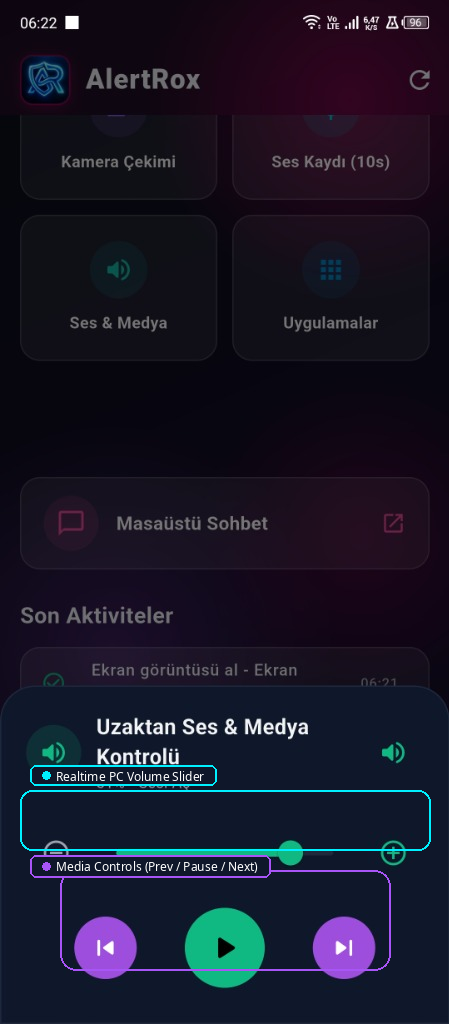
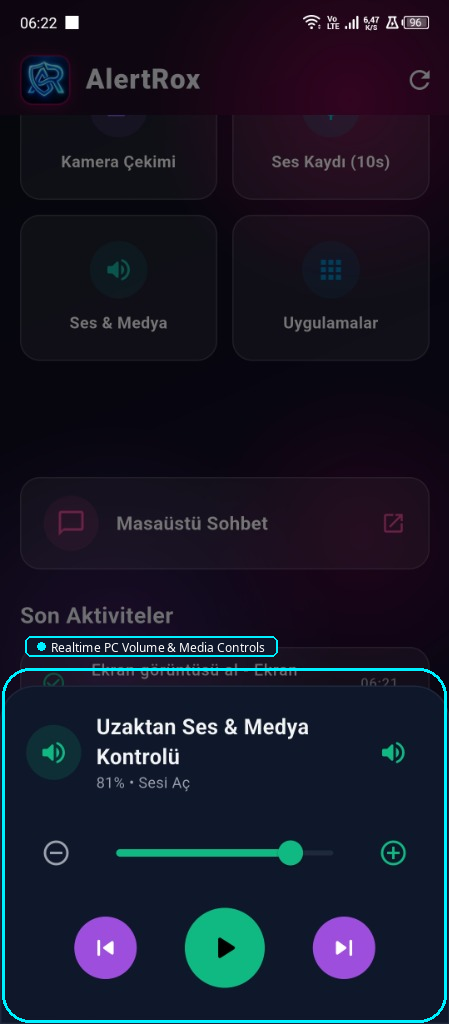
docs: clean Turkish screenshots and fix volume overlay across all languages

diff --git a/scripts/generate_annotated_screenshots.py b/scripts/generate_annotated_screenshots.py
@@ -23,7 +23,6 @@ LANGUAGES = ['tr', 'en', 'de', 'ru', 'es', 'ar', 'fr', 'pt', 'zh', 'ja']
 ANNOTATIONS = {
     'dashboard': {
         'status': {
-            'tr': 'Canlı PC Durumu (Çevrimiçi / Pil / IP)',
             'en': 'Live PC Status (Online / Battery / IP)',
             'de': 'Live PC-Status (Online / Akku / IP)',
             'ru': 'Статус ПК (В сети / Батарея / IP)',
@@ -35,7 +34,6 @@ ANNOTATIONS = {
             'ja': 'リアルタイムPC状態（オンライン / バッテリー / IP）',
         },
         'actions': {
-            'tr': 'Hızlı Eylem Kartları (Kilit, Kapatma vb.)',
             'en': 'Quick Action Controls (Lock, Shutdown etc.)',
             'de': 'Schnellaktionen (Sperren, Herunterfahren etc.)',
             'ru': 'Быстрые действия (Блокировка, Выключение и др.)',
@@ -49,7 +47,6 @@ ANNOTATIONS = {
     },
     'apps': {
         'tabs': {
-            'tr': 'Açık Olanlar ve Yüklü Uygulamalar',
             'en': 'Running & Installed Desktop Apps',
             'de': 'Laufende & Installierte Anwendungen',
             'ru': 'Запущенные и установленные приложения',
@@ -61,7 +58,6 @@ ANNOTATIONS = {
             'ja': '実行中およびインストール済みアプリ',
         },
         'launch': {
-            'tr': "Tek Dokunuşla PC'de Başlat / Kapat",
             'en': 'One-Click Launch & Close on PC',
             'de': 'Ein-Klick Starten & Beenden auf dem PC',
             'ru': 'Запуск и закрытие на ПК в один клик',
@@ -75,7 +71,6 @@ ANNOTATIONS = {
     },
     'media': {
         'audio': {
-            'tr': 'Uygulama İçi Ses Çalar (İndirmeden Dinle)',
             'en': 'In-App Audio Player (Listen without download)',
             'de': 'In-App Audio-Player (Ohne Download anhören)',
             'ru': 'Встроенный аудиоплеер (Без скачивания)',
@@ -87,7 +82,6 @@ ANNOTATIONS = {
             'ja': 'アプリ内オーディオプレーヤー（ダウンロード不要）',
         },
         'preview': {
-            'tr': 'Ekran Görüntüsü / Kamera Önizlemesi & İndirme',
             'en': 'Screenshot & Webcam Preview / Download',
             'de': 'Screenshot- & Webcam-Vorschau / Download',
             'ru': 'Просмотр и скачивание скриншота/веб-камеры',
@@ -101,33 +95,19 @@ ANNOTATIONS = {
     },
     'volume': {
         'slider': {
-            'tr': 'Anlık PC Ses Seviyesi Kaydırıcısı',
-            'en': 'Realtime PC Volume Slider',
-            'de': 'Echtzeit-PC-Lautstärkeregler',
-            'ru': 'Ползунок громкости ПК в реальном времени',
-            'es': 'Control deslizante de volumen de PC en tiempo real',
-            'ar': 'شريط تمرير مستوى صوت الكمبيوتر المباشر',
-            'fr': 'Curseur de volume PC en temps réel',
-            'pt': 'Controle deslizante de volume do PC em tempo real',
-            'zh': '实时电脑音量滑块',
-            'ja': 'リアルタイムPC音量スライダー',
-        },
-        'media': {
-            'tr': 'Medya Oynatıcı Kontrolleri (Önceki / Durdur / Sonraki)',
-            'en': 'Media Controls (Prev / Pause / Next)',
-            'de': 'Mediensteuerung (Zurück / Pause / Vor)',
-            'ru': 'Управление медиа (Пред / Пауза / След)',
-            'es': 'Controles de medios (Anterior / Pausa / Siguiente)',
-            'ar': 'التحكم في الوسائط (السابق / إيقاف / التالي)',
-            'fr': 'Contrôles multimédias (Précédent / Pause / Suivant)',
-            'pt': 'Controles de mídia (Anterior / Pausar / Próximo)',
-            'zh': '媒体播放控制（上一曲 / 暂停 / 下一曲）',
-            'ja': 'メディア操作（前へ / 一時停止 / 次へ）',
+            'en': 'Realtime PC Volume & Media Controls',
+            'de': 'Echtzeit-PC-Lautstärke & Mediensteuerung',
+            'ru': 'Громкость ПК и управление медиа в реальном времени',
+            'es': 'Volumen de PC y controles de medios en tiempo real',
+            'ar': 'التحكم في صوت الكمبيوتر والوسائط المباشرة',
+            'fr': 'Volume PC et contrôles multimédias en temps réel',
+            'pt': 'Volume do PC e controles de mídia em tempo real',
+            'zh': '实时电脑音量与媒体控制',
+            'ja': 'リアルタイムPC音量＆メディアコントロール',
         },
     },
     'widget': {
         'widget': {
-            'tr': "Canlı Android Masaüstü Widget'ı (Çevrimiçi Takibi)",
             'en': 'Live Android Home Screen Widget (PC Status)',
             'de': 'Live Android Startbildschirm-Widget (PC-Status)',
             'ru': 'Виджет главного экрана Android (Статус ПК)',
@@ -141,7 +121,6 @@ ANNOTATIONS = {
     },
     'supabase': {
         'step1': {
-            'tr': '1. "supabase_schema.sql" dosyasını buraya yapıştırın',
             'en': '1. Paste "supabase_schema.sql" code here',
             'de': '1. Fügen Sie "supabase_schema.sql" hier ein',
             'ru': '1. Вставьте код "supabase_schema.sql" сюда',
@@ -153,7 +132,6 @@ ANNOTATIONS = {
             'ja': '1. ここに "supabase_schema.sql" コードを貼り付けます',
         },
         'step2': {
-            'tr': '2. "Run" (Çalıştır) butonuna tıklayın',
             'en': '2. Click "Run" to execute',
             'de': '2. Auf "Run" (Ausführen) klicken',
             'ru': '2. Нажмите "Run" для выполнения',
@@ -217,6 +195,9 @@ def process_dashboard(lang):
     # Censor IP: (75, 260, 175, 285)
     censor_region(im, (75, 260, 175, 285), blur_radius=8)
     
+    if lang == 'tr':
+        return im  # Turkish: Pure clean screenshot with censorship only!
+    
     draw = ImageDraw.Draw(im)
     font = get_font(12, lang)
     
@@ -237,6 +218,9 @@ def process_apps(lang):
     # Censor local user path in Albion: (100, 592, 280, 615)
     censor_region(im, (100, 592, 280, 615), blur_radius=6)
     
+    if lang == 'tr':
+        return im  # Turkish: Pure clean screenshot with censorship only!
+    
     draw = ImageDraw.Draw(im)
     font = get_font(12, lang)
     
@@ -255,6 +239,10 @@ def process_apps(lang):
 
 def process_media(lang):
     im = Image.open(RAW_FILES['media']).convert('RGBA')
+    
+    if lang == 'tr':
+        return im  # Turkish: Pure clean screenshot!
+    
     draw = ImageDraw.Draw(im)
     font = get_font(12, lang)
     
@@ -272,23 +260,30 @@ def process_media(lang):
 
 def process_volume(lang):
     im = Image.open(RAW_FILES['volume']).convert('RGBA')
+    
+    if lang == 'tr':
+        return im  # Turkish: Pure clean screenshot with NO rectangles!
+    
+    # For other languages: NO broken rectangles on slider or buttons!
+    # Just a clean frame around the bottom sheet and a single header badge above the sheet.
     draw = ImageDraw.Draw(im)
     font = get_font(12, lang)
     
-    # Slider Callout
-    txt_slider = ANNOTATIONS['volume']['slider'][lang]
-    draw.rounded_rectangle([20, 790, 430, 850], radius=12, outline=(0, 240, 255, 220), width=2)
-    draw_pill_badge(draw, 30, 765, txt_slider, font, border_color=(0, 240, 255), dot_color=(0, 240, 255))
+    # Clean frame around the bottom sheet (2, 668, 446, 1022)
+    draw.rounded_rectangle([2, 668, 446, 1022], radius=28, outline=(0, 240, 255, 220), width=3)
     
-    # Media controls Callout
-    txt_media = ANNOTATIONS['volume']['media'][lang]
-    draw.rounded_rectangle([60, 870, 390, 970], radius=16, outline=(168, 85, 247, 220), width=2)
-    draw_pill_badge(draw, 30, 855, txt_media, font, border_color=(168, 85, 247), dot_color=(168, 85, 247))
+    # Badge placed neatly above the sheet at (30, 636)
+    txt_vol = ANNOTATIONS['volume']['slider'][lang]
+    draw_pill_badge(draw, 25, 636, txt_vol, font, border_color=(0, 240, 255), dot_color=(0, 240, 255))
     
     return im
 
 def process_widget(lang):
     im = Image.open(RAW_FILES['widget']).convert('RGBA')
+    
+    if lang == 'tr':
+        return im  # Turkish: Pure clean screenshot!
+    
     draw = ImageDraw.Draw(im)
     font = get_font(12, lang)
     
@@ -305,6 +300,9 @@ def process_supabase(lang):
     censor_region(im, (55, 10, 140, 33), blur_radius=8, fill_color=(15, 23, 42))
     # Censor avatar top right: (990, 8, 1015, 33)
     censor_region(im, (990, 8, 1015, 33), blur_radius=8, fill_color=(15, 23, 42))
+    
+    if lang == 'tr':
+        return im  # Turkish: Clean screenshot with censorship only!
     
     draw = ImageDraw.Draw(im)
     font = get_font(13, lang)
@@ -325,7 +323,7 @@ def process_supabase(lang):
     return im
 
 def main():
-    print("🎨 Generating clean, censored & annotated screenshots across all 10 languages...")
+    print("🎨 Generating updated screenshots across all 10 languages...")
     
     for lang in LANGUAGES:
         out_dir = os.path.join(OUT_BASE, lang)
@@ -355,9 +353,10 @@ def main():
         im_supa = process_supabase(lang)
         im_supa.convert('RGB').save(os.path.join(out_dir, 'supabase.png'), optimize=True)
         
-        print(f"  ✓ [{lang}] Generated 6 screenshots in {out_dir}/")
+        mode = "CLEAN (no overlays)" if lang == 'tr' else "ANNOTATED"
+        print(f"  ✓ [{lang}] Generated 6 screenshots in {out_dir}/ ({mode})")
         
-    print("🎉 All 60 screenshots generated successfully!")
+    print("🎉 All 60 screenshots regenerated successfully!")
 
 if __name__ == '__main__':
     main()
